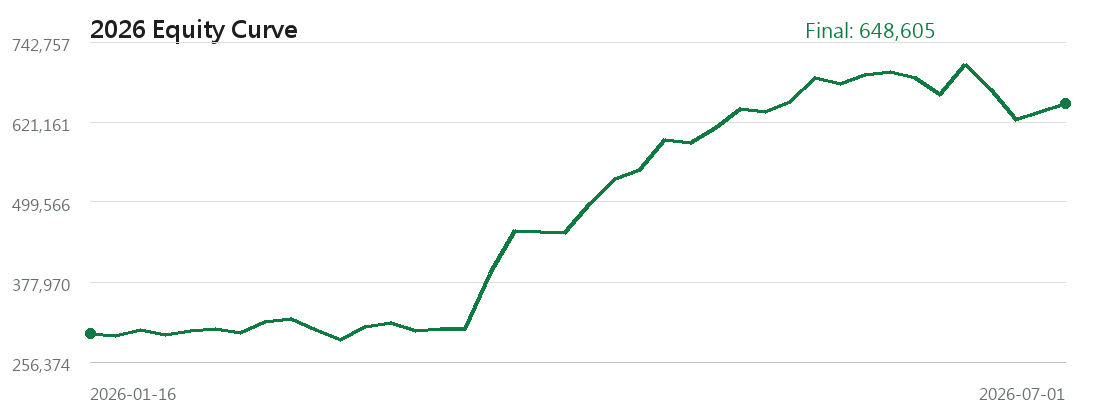
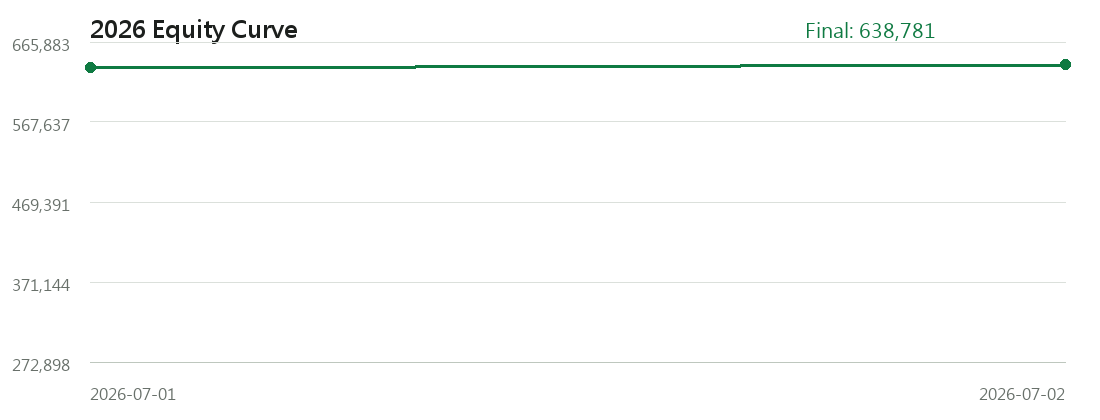
Repair live follow ledger history

diff --git a/data.js b/data.js
@@ -22,253 +22,25 @@ window.PUBLIC_FOLLOW_DATA = {
     "annualized_return_pct": 421.66359530259945,
     "start_date": "2026-01-16",
     "end_date": "2026-07-02",
-    "closed_trade_count": null,
-    "entry_count": 50,
+    "closed_trade_count": 4,
+    "entry_count": 5,
     "open_position_count": 5,
-    "closed_trade_win_rate_pct": null,
-    "average_closed_trade_return_pct": null,
-    "max_drawdown_pct": null,
+    "closed_trade_win_rate_pct": 75.0,
+    "average_closed_trade_return_pct": 3.643039634594594,
+    "max_drawdown_pct": 0,
     "performance_source": "actual_follow_account"
   },
   "equity_curve": [
     {
-      "date": "2026-01-16",
-      "equity": 300000.0,
-      "cash": 240150.0,
-      "position_count": 1
-    },
-    {
-      "date": "2026-01-20",
-      "equity": 296342.5,
-      "cash": 181020.0,
-      "position_count": 2
-    },
-    {
-      "date": "2026-01-23",
-      "equity": 305092.5,
-      "cash": 120060.0,
-      "position_count": 3
-    },
-    {
-      "date": "2026-01-27",
-      "equity": 297593.5,
-      "cash": 60646.0,
-      "position_count": 4
-    },
-    {
-      "date": "2026-01-30",
-      "equity": 304940.5,
-      "cash": 60646.0,
-      "position_count": 4
-    },
-    {
-      "date": "2026-02-03",
-      "equity": 307961.0,
-      "cash": 52566.0,
-      "position_count": 4
-    },
-    {
-      "date": "2026-02-06",
-      "equity": 300599.5,
-      "cash": 109071.5,
-      "position_count": 3
-    },
-    {
-      "date": "2026-02-25",
-      "equity": 317802.0,
-      "cash": 45825.5,
-      "position_count": 4
-    },
-    {
-      "date": "2026-02-26",
-      "equity": 322261.0,
-      "cash": 45825.5,
-      "position_count": 4
-    },
-    {
-      "date": "2026-03-05",
-      "equity": 306011.5,
-      "cash": 33.5,
-      "position_count": 5
-    },
-    {
-      "date": "2026-03-09",
-      "equity": 289917.5,
-      "cash": 15934.5,
-      "position_count": 5
-    },
-    {
-      "date": "2026-03-12",
-      "equity": 311017.0,
-      "cash": 13314.0,
-      "position_count": 5
-    },
-    {
-      "date": "2026-03-16",
-      "equity": 316064.5,
-      "cash": 9001.0,
-      "position_count": 5
-    },
-    {
-      "date": "2026-03-30",
-      "equity": 304611.5,
-      "cash": 91.0,
-      "position_count": 5
-    },
-    {
-      "date": "2026-03-31",
-      "equity": 307380.0,
-      "cash": 91.0,
-      "position_count": 5
-    },
-    {
-      "date": "2026-04-01",
-      "equity": 306549.5,
-      "cash": 91.0,
-      "position_count": 5
-    },
-    {
-      "date": "2026-04-14",
-      "equity": 391164.0,
-      "cash": 91.0,
-      "position_count": 5
-    },
-    {
-      "date": "2026-04-30",
-      "equity": 456576.2,
-      "cash": 91.0,
-      "position_count": 5
-    },
-    {
-      "date": "2026-05-12",
-      "equity": 454610.0,
-      "cash": 363701.0,
-      "position_count": 1
-    },
-    {
-      "date": "2026-05-13",
-      "equity": 453411.2,
-      "cash": 273111.5,
-      "position_count": 2
-    },
-    {
-      "date": "2026-05-20",
-      "equity": 496981.5,
-      "cash": 173739.5,
-      "position_count": 3
-    },
-    {
-      "date": "2026-05-22",
-      "equity": 534788.0,
-      "cash": 66813.5,
-      "position_count": 4
-    },
-    {
-      "date": "2026-05-26",
-      "equity": 549664.6,
-      "cash": 214.5,
-      "position_count": 5
-    },
-    {
-      "date": "2026-05-29",
-      "equity": 595206.4,
-      "cash": 214.5,
-      "position_count": 5
-    },
-    {
-      "date": "2026-06-02",
-      "equity": 589978.8,
-      "cash": 24.0,
-      "position_count": 5
-    },
-    {
-      "date": "2026-06-03",
-      "equity": 613021.6,
-      "cash": 96469.2,
-      "position_count": 5
-    },
-    {
-      "date": "2026-06-05",
-      "equity": 642001.2,
-      "cash": 81712.20000000001,
-      "position_count": 5
-    },
-    {
-      "date": "2026-06-11",
-      "equity": 637718.7,
-      "cash": 119676.70000000001,
-      "position_count": 4
-    },
-    {
-      "date": "2026-06-12",
-      "equity": 651695.9,
-      "cash": 356.70000000001164,
-      "position_count": 5
-    },
-    {
-      "date": "2026-06-16",
-      "equity": 688313.1000000001,
-      "cash": 33041.100000000035,
-      "position_count": 5
-    },
-    {
-      "date": "2026-06-17",
-      "equity": 679071.1000000001,
-      "cash": 33041.100000000035,
-      "position_count": 5
-    },
-    {
-      "date": "2026-06-18",
-      "equity": 692785.1000000001,
-      "cash": 33041.100000000035,
-      "position_count": 5
-    },
-    {
-      "date": "2026-06-22",
-      "equity": 697451.1000000001,
-      "cash": 33041.100000000035,
-      "position_count": 5
-    },
-    {
-      "date": "2026-06-23",
-      "equity": 688253.1000000001,
-      "cash": 33041.100000000035,
-      "position_count": 5
-    },
-    {
-      "date": "2026-06-24",
-      "equity": 663551.1000000001,
-      "cash": 25176.100000000035,
-      "position_count": 5
-    },
-    {
-      "date": "2026-06-25",
-      "equity": 709213.6000000001,
-      "cash": 24315.504617309605,
-      "position_count": 5
-    },
-    {
-      "date": "2026-06-26",
-      "equity": 671049.2069259644,
-      "cash": 18579.20692596439,
-      "position_count": 5
-    },
-    {
-      "date": "2026-06-29",
-      "equity": 625394.2069259644,
-      "cash": 43.00862274173414,
-      "position_count": 5
-    },
-    {
-      "date": "2026-06-30",
-      "equity": 637288.0086227418,
-      "cash": 732.0086227417341,
-      "position_count": 5
-    },
-    {
       "date": "2026-07-01",
-      "equity": 648605.0086227418,
-      "cash": 732.0086227417341,
+      "equity": 634504.2448249818,
+      "cash": 4620.701188659703,
+      "position_count": 5
+    },
+    {
+      "date": "2026-07-02",
+      "equity": 638781.0007644654,
+      "cash": 4620.701188659703,
       "position_count": 5
     }
   ],
@@ -415,6 +187,96 @@ window.PUBLIC_FOLLOW_DATA = {
       "action_text": "換股買進"
     }
   ],
-  "recent_entries": [],
-  "recent_closed_trades": []
+  "recent_entries": [
+    {
+      "stock_id": "6669",
+      "company_name": "緯穎",
+      "entry_date": "2026-07-01",
+      "entry_price": 4740.0,
+      "quantity": 26,
+      "cost": 123240.0
+    },
+    {
+      "stock_id": "2610",
+      "company_name": "華航",
+      "entry_date": "2026-07-01",
+      "entry_price": 23.700000762939453,
+      "quantity": 5190,
+      "cost": 123003.00395965576
+    },
+    {
+      "stock_id": "2801",
+      "company_name": "彰銀",
+      "entry_date": "2026-07-01",
+      "entry_price": 24.0,
+      "quantity": 5126,
+      "cost": 123024.0
+    },
+    {
+      "stock_id": "2542",
+      "company_name": "興富發",
+      "entry_date": "2026-07-01",
+      "entry_price": 43.0,
+      "quantity": 2857,
+      "cost": 122851.0
+    },
+    {
+      "stock_id": "4958",
+      "company_name": "臻鼎-KY",
+      "entry_date": "2026-06-16",
+      "entry_price": 596.0,
+      "quantity": 230,
+      "cost": 137080.0
+    }
+  ],
+  "recent_closed_trades": [
+    {
+      "stock_id": "8070",
+      "company_name": "長華*",
+      "entry_date": "2026-06-29",
+      "entry_price": 53.79999923706055,
+      "quantity": 2192,
+      "exit_date": "2026-07-01",
+      "exit_price": 54.099998474121094,
+      "exit_reason": "follow_signal_replace",
+      "return_pct": 0.557619407648402,
+      "holding_days": 2
+    },
+    {
+      "stock_id": "5434",
+      "company_name": "崇越",
+      "entry_date": "2026-06-29",
+      "entry_price": 507.0,
+      "quantity": 229,
+      "exit_date": "2026-07-01",
+      "exit_price": 550.0,
+      "exit_reason": "follow_signal_replace",
+      "return_pct": 8.481262327416172,
+      "holding_days": 2
+    },
+    {
+      "stock_id": "6409",
+      "company_name": "旭隼",
+      "entry_date": "2026-06-29",
+      "entry_price": 999.0,
+      "quantity": 123,
+      "exit_date": "2026-07-01",
+      "exit_price": 1090.0,
+      "exit_reason": "follow_signal_replace",
+      "return_pct": 9.109109109109115,
+      "holding_days": 2
+    },
+    {
+      "stock_id": "6691",
+      "company_name": "洋基工程",
+      "entry_date": "2026-06-29",
+      "entry_price": 811.0,
+      "quantity": 151,
+      "exit_date": "2026-07-01",
+      "exit_price": 782.0,
+      "exit_reason": "follow_signal_replace",
+      "return_pct": -3.5758323057953123,
+      "holding_days": 2
+    }
+  ]
 };